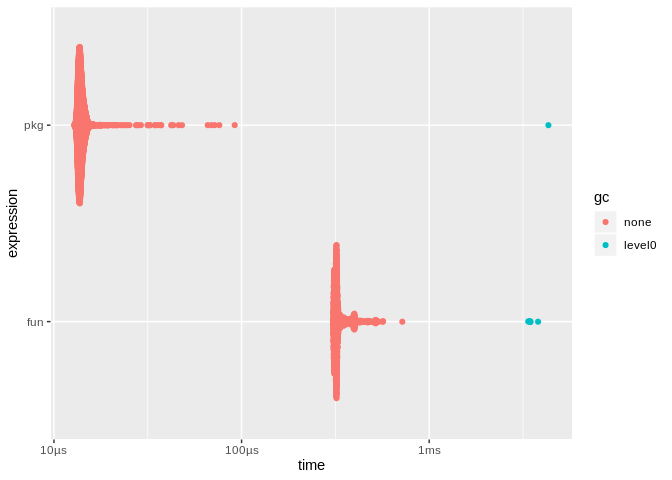
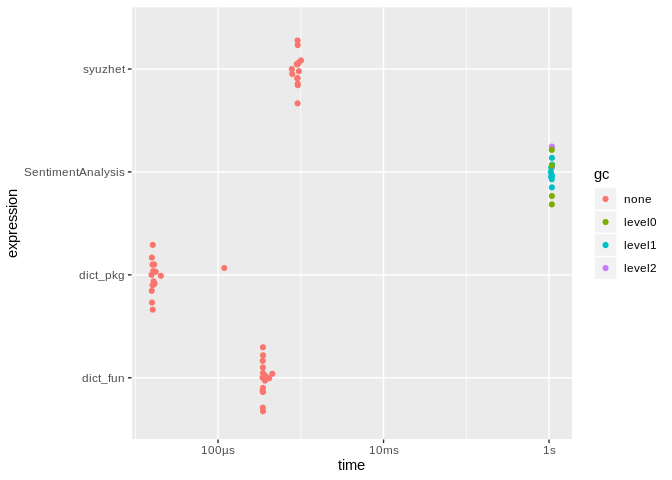
Edit README

diff --git a/README.md b/README.md
@@ -142,20 +142,36 @@ Compare the speed of the default returned function (written in R) versus
 the optimized version in the standalone package (written in C)
 
 ``` r
+## analyzeSentiment() won't work unless you load the whole library
+library(SentimentAnalysis)
+#> 
+#> Attaching package: 'SentimentAnalysis'
+#> The following object is masked from 'package:base':
+#> 
+#>     write
+
 ## compare speed
 bm <- bench::mark(
-  fun = d$score(txt),
-  pkg = simpleexample::score(txt),
-  relative = TRUE
+  SentimentAnalysis = analyzeSentiment(txt),
+  syuzhet = syuzhet::get_sentiment(txt),
+  dict_fun = d$score(txt),
+  dict_pkg = simpleexample::score(txt),
+  relative = TRUE,
+  check = FALSE,
+  iterations = 15
 )
+#> Warning: Some expressions had a GC in every iteration; so filtering is
+#> disabled.
 
 ## view results
 bm
-#> # A tibble: 2 x 6
-#>   expression   min median `itr/sec` mem_alloc `gc/sec`
-#>   <bch:expr> <dbl>  <dbl>     <dbl>     <dbl>    <dbl>
-#> 1 fun         23.9   23.2       1         Inf     1.75
-#> 2 pkg          1      1        23.8       NaN     1
+#> # A tibble: 4 x 6
+#>   expression            min  median `itr/sec` mem_alloc `gc/sec`
+#>   <bch:expr>          <dbl>   <dbl>     <dbl>     <dbl>    <dbl>
+#> 1 SentimentAnalysis 66927.  66534.         1        Inf      Inf
+#> 2 syuzhet              49.6    56.3     1188.       Inf      NaN
+#> 3 dict_fun             22.0    21.5     2969.       Inf      NaN
+#> 4 dict_pkg              1       1      45873.       NaN      NaN
 
 ## view plot
 ggplot2::autoplot(bm)
